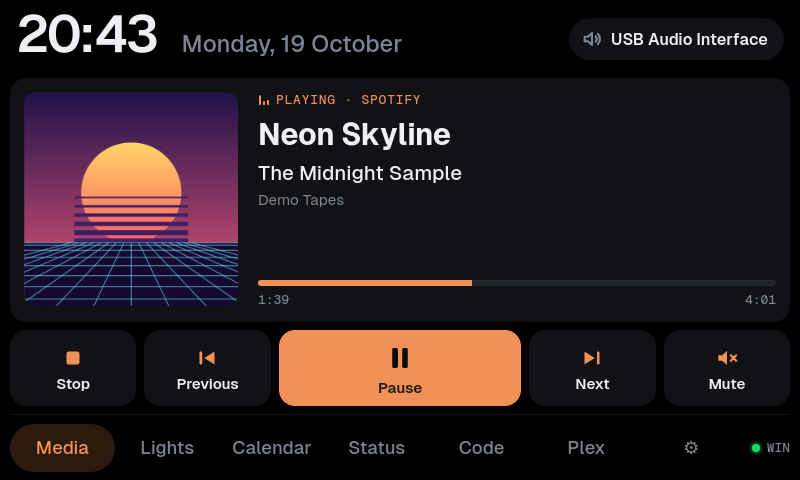
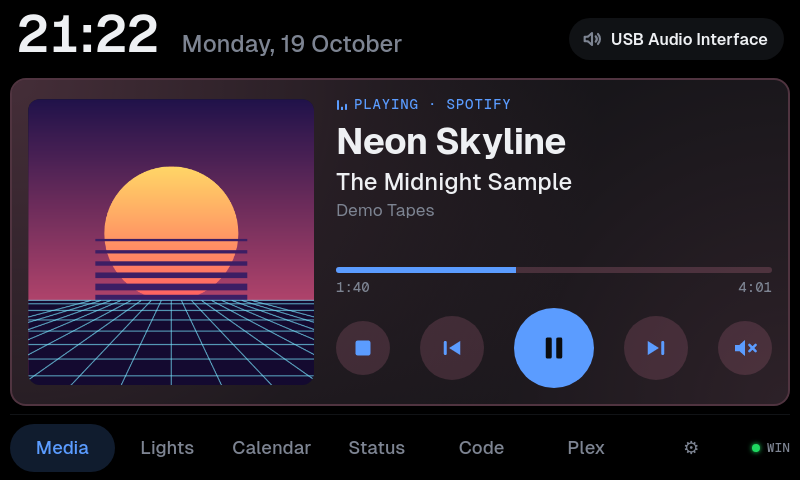
Document the new Media card and tabs that start hidden; retake Media and Plex

diff --git a/README.md b/README.md
@@ -10,7 +10,8 @@ as soon as you plug it in.
   steps, plus live pages filled by the computer agent: Media, Lights (Philips Hue),
   Calendar, Status, Code (GitHub) and Plex. Up to seven tabs share the bottom bar;
   with more, it shows four at a time and scrolls. Settings → Tabs sets their order
-  and hides any you don't use. On live pages, the top bar also shows the song
+  and hides any you don't use; live pages you haven't set up (no config file yet)
+  start hidden and can be turned on there. On live pages, the top bar also shows the song
   playing (tap it for Media).
 - **4 top buttons:** presets that change with the page. Tile pages show their
   labels under the buttons; live pages show a big clock and the date there instead,
@@ -162,8 +163,9 @@ time or their lock state to a keyboard. An optional agent on the computer sends
 them to the Car Thing **over the USB cable** (`adb forward`; no network):
 
 - **Now playing:** the Media page shows the cover, title, artist, album, the app it
-  plays in, playing/paused and a live progress bar, with the media controls in a row
-  below. When nothing is playing it says so; the controls work either way.
+  plays in, playing/paused and a live progress bar, on a card tinted with the cover's
+  colors, with round media controls under the progress bar. When nothing is playing
+  it says so; the controls work either way.
 - **Calendar:** the Calendar page shows today, tomorrow and the rest of the week
   from your calendars (see [Adding your calendar](#adding-your-calendar)): repeating
   events, moved or cancelled occurrences and time zones included, meetings you

diff --git a/device/README.md b/device/README.md
@@ -341,6 +341,13 @@ their config order after the named ones, so new pages appear at the end. Page
 indexes, the tabs, swipes and `{"page": "next"}` (the back button, wrapping around)
 all work on the shown pages. Changing either setting keeps the current page.
 
+**Pages that aren't set up** hide on their own: `Pad.refresh_hidden()` (every 2 s) hides
+a page whose widgets all report `none` (no `calendars.txt`, `github.txt`, `plex.txt` or
+`truenas.txt`, Hue not paired). `unknown`, before the agent first reports, doesn't count.
+Turning such a page on in Settings → Tabs adds it to `page_shown`, which wins over
+this; turning any page off adds it to `page_hidden`, which wins over both. The state
+carries `hidden` (the effective set) and `unconfigured` for the UI.
+
 ### Volume and audio devices
 
 The agent checks the default output's volume and mute, and the default output and
